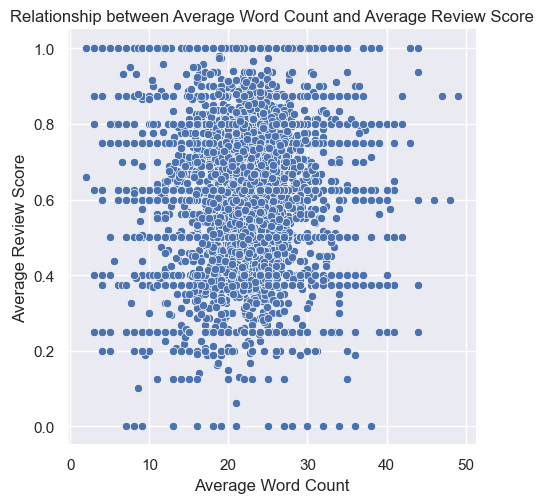
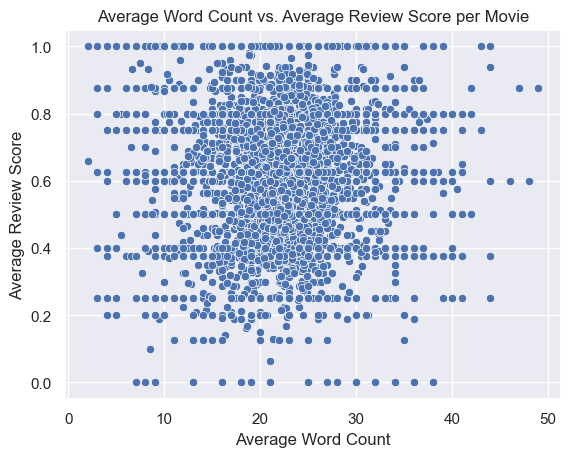
Word count vs score fix

diff --git a/main.py b/main.py
@@ -290,7 +290,6 @@ def wordcloud_negative(movie_reviews: pd.DataFrame) -> None:
     plt.show()
 
 # Third data visualization
-# Third data visualization
 def word_count_vs_review_score(movie_reviews: pd.DataFrame) -> None:
      # create new plot (otherwise plots will save on top of it)
     plt.figure()
@@ -308,13 +307,10 @@ def word_count_vs_review_score(movie_reviews: pd.DataFrame) -> None:
     # create scatter plot
     sns.scatterplot(x='Average Word Count', y='Average Review Score', data=data)
 
-    # add line of best fit
-    sns.relplot(x='Average Word Count', y='Average Review Score', data=data)
-
     # plot labels
     plt.xlabel('Average Word Count')
     plt.ylabel('Average Review Score')
-    plt.title('Relationship between Average Word Count and Average Review Score')
+    plt.title('Average Word Count vs. Average Review Score per Movie')
 
     # save plot to image
     plt.savefig('ave_word_count_vs_score.png', bbox_inches='tight')
